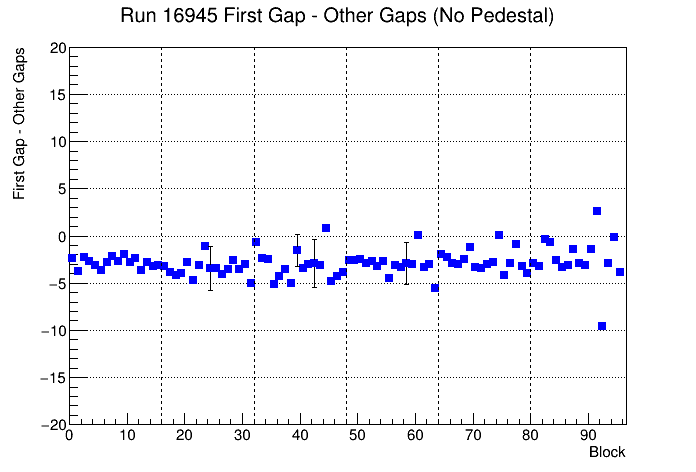
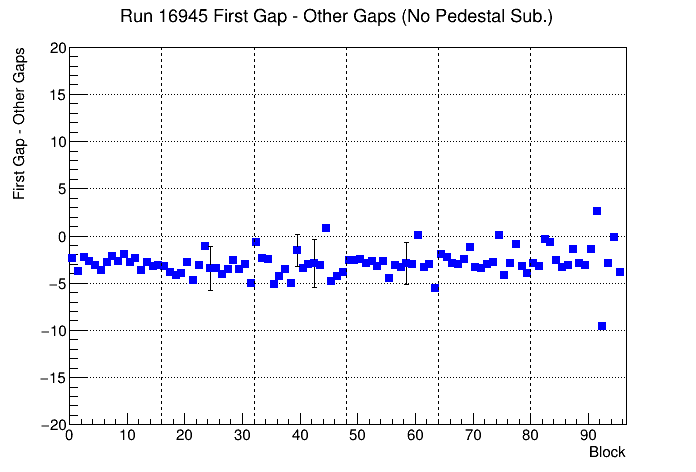
added more meta-plots

Changed region(s): [[0.181, 0.0, 0.8147, 0.0593]]

diff --git a/fit_no_pedestal.cpp b/fit_no_pedestal.cpp
@@ -329,7 +329,7 @@ void fit_no_pedestal(int run_num) {
     block_gaps_err[i] /= 4;
   }
   TGraphErrors *gap_graph = new TGraphErrors(96, blocks, block_gaps, blocks_err, block_gaps_err);
-  gap_graph->SetTitle(Form("Run %i Single Pixel Gaps (No Pedestal)", run_num));
+  gap_graph->SetTitle(Form("Run %i Single Pixel Gaps (No Pedestal Sub.)", run_num));
   gap_graph->GetXaxis()->SetTitle("Block");
   gap_graph->GetYaxis()->SetTitle("Single Pixel Gap");
   gap_graph->GetXaxis()->SetRangeUser(0.0, 96.0);
@@ -363,7 +363,7 @@ void fit_no_pedestal(int run_num) {
     gap_diffs_err[i] /= 4;
   }
   TGraphErrors *gap_diff_graph = new TGraphErrors(96, blocks, gap_diffs, blocks_err, gap_diffs_err);
-  gap_diff_graph->SetTitle(Form("Run %i First Gap - Other Gaps (No Pedestal)", run_num));
+  gap_diff_graph->SetTitle(Form("Run %i First Gap - Other Gaps (No Pedestal Sub.)", run_num));
   gap_diff_graph->GetXaxis()->SetTitle("Block");
   gap_diff_graph->GetYaxis()->SetTitle("First Gap - Other Gaps");
   gap_diff_graph->GetXaxis()->SetRangeUser(0.0, 96.0);
@@ -401,7 +401,7 @@ void fit_no_pedestal(int run_num) {
     peak_ratios_err[i] /= 4;
   }
   TGraphErrors *peak_ratio_graph = new TGraphErrors(96, blocks, peak_ratios, blocks_err, peak_ratios_err);
-  peak_ratio_graph->SetTitle(Form("Run %i 1st Peak / 2nd Peak (No Pedestal)", run_num));
+  peak_ratio_graph->SetTitle(Form("Run %i 1st Peak / 2nd Peak (No Pedestal Sub.)", run_num));
   peak_ratio_graph->GetXaxis()->SetTitle("Block");
   peak_ratio_graph->GetYaxis()->SetTitle("1st Peak / 2nd Peak");
   peak_ratio_graph->GetXaxis()->SetRangeUser(0.0, 96.0);
@@ -437,13 +437,13 @@ void fit_no_pedestal(int run_num) {
     }
   }
   TGraphErrors *chi2_block_graph = new TGraphErrors(96, blocks, chi2_block, blocks_err, chi2_block_err);
-  chi2_block_graph->SetTitle(Form("Run %i Chi2/NDF (No Pedestal)", run_num));
+  chi2_block_graph->SetTitle(Form("Run %i Chi2/NDF (No Pedestal Sub.)", run_num));
   chi2_block_graph->GetXaxis()->SetTitle("Block");
   chi2_block_graph->GetYaxis()->SetTitle("Chi2/NDF");
   chi2_block_graph->GetXaxis()->SetRangeUser(0.0, 96.0);
   chi2_block_graph->SetMarkerStyle(21);
   chi2_block_graph->SetMarkerColor(kBlue);
-  chi2_block_graph->GetYaxis()->SetRangeUser(0.0, max_chi2 * 1.2);
+  chi2_block_graph->GetYaxis()->SetRangeUser(0.0, 50.0);
   TCanvas *c5 = new TCanvas("c5", "", 700, 500);
   chi2_block_graph->Draw("AP");
   gPad->Update();
@@ -456,6 +456,22 @@ void fit_no_pedestal(int run_num) {
   }
   c5->SetGridy();
   c5->SaveAs(Form("%s/chi2_block.png", file_prefix));
+
+  // plot ratio as a function of chi2
+  TGraphErrors *ratio_by_chi2_graph = new TGraphErrors(96, chi2_block, peak_ratios, chi2_block_err, peak_ratios_err);
+  ratio_by_chi2_graph->SetTitle(Form("Run %i 1st Peak / 2nd Peak by Chi2/NDF (No Pedestal Sub.)", run_num));
+  ratio_by_chi2_graph->GetXaxis()->SetTitle("Chi2/NDF");
+  ratio_by_chi2_graph->GetYaxis()->SetTitle("1st Peak / 2nd Peak");
+  ratio_by_chi2_graph->GetXaxis()->SetLimits(0.0, 50.0);
+  ratio_by_chi2_graph->SetMarkerStyle(33);
+  ratio_by_chi2_graph->SetMarkerSize(1.0);
+  ratio_by_chi2_graph->SetMarkerColor(kBlue);
+  ratio_by_chi2_graph->GetYaxis()->SetRangeUser(0.0, 3.0);
+  TCanvas *c6 = new TCanvas("c6", "", 700, 500);
+  ratio_by_chi2_graph->Draw("AP");
+  gPad->Update();
+  c6->SetGridy();
+  c6->SaveAs(Form("%s/ratio_by_chi2.png", file_prefix));
 
   int n_conv = 0;
   printf("<-- THESE FITS CONVERGED -->\n");
